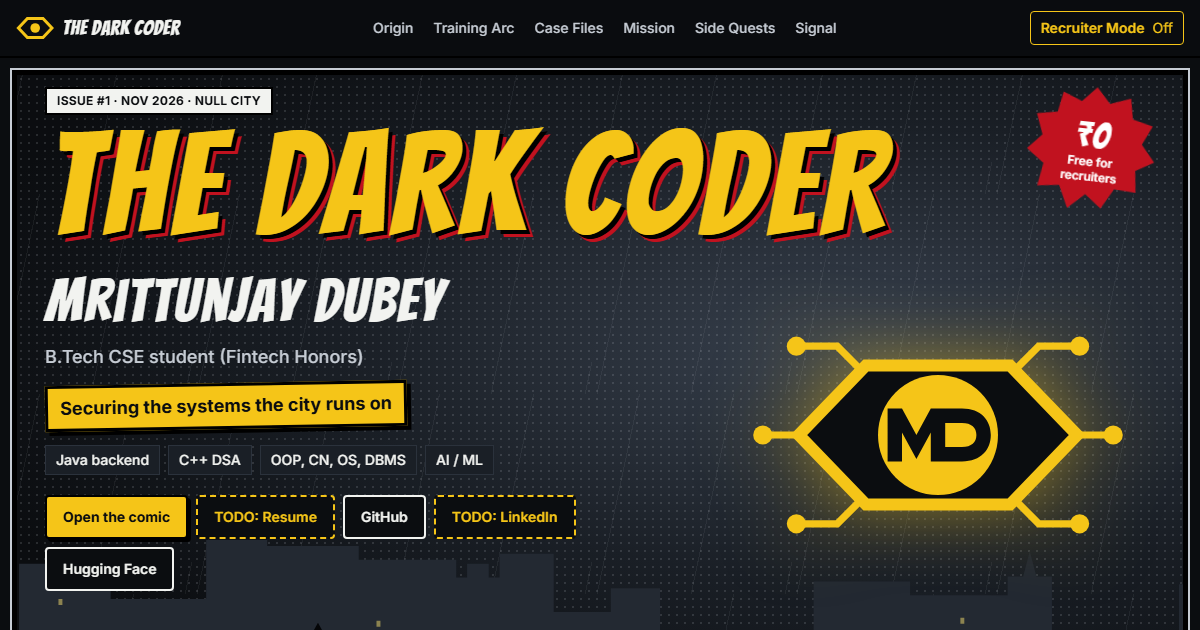
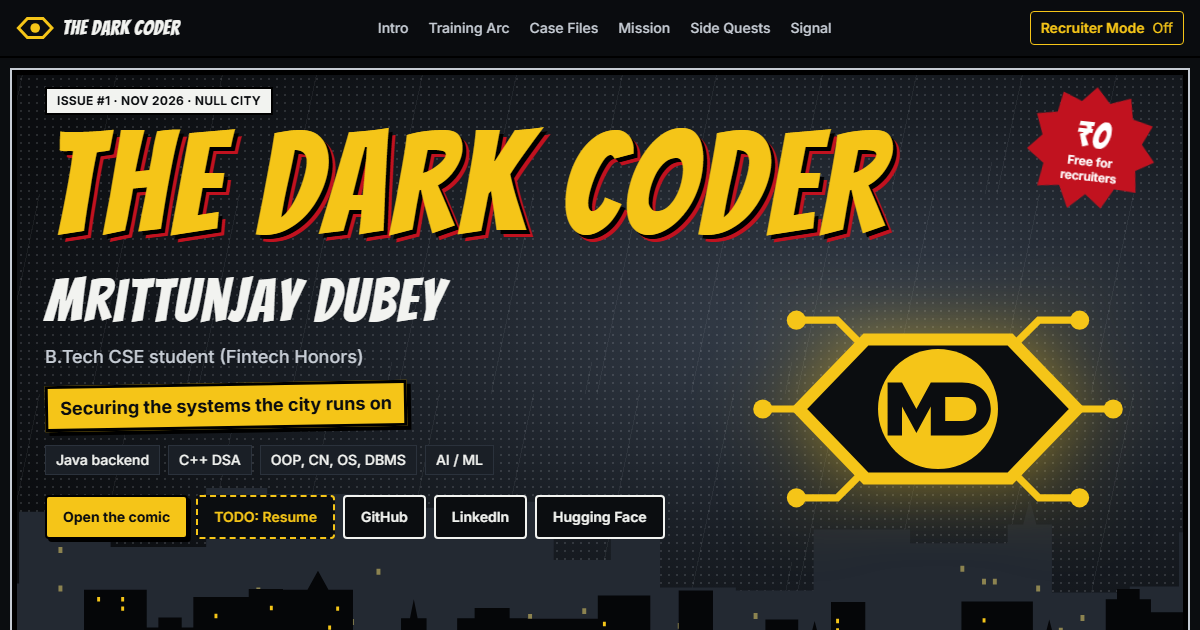
Add confirmed education, contact links, Fintech details and GateKeeper
Fills in Service Record numbers, email and LinkedIn, and adds GateKeeper as a Development case file.

diff --git a/src/content/cases.ts b/src/content/cases.ts
@@ -429,6 +429,37 @@ export const cases: CaseFile[] = [
     ],
   },
   {
+    id: 'gatekeeper',
+    category: 'dev',
+    title: 'GateKeeper',
+    domain: 'Android app',
+    problem:
+      'My parents kept getting locked out at the gate: one would arrive home while the other had forgotten to unlock it. A normal notification is easy to miss, and an early one is easy to forget.',
+    result:
+      "I designed a two-phone alert system that needs no manual tracking. It sends a quiet notice when the commuter leaves work, then sounds a looping full-screen alarm about 3 minutes from home, until the person at home taps to confirm.",
+    limit:
+      'Android only, and installed directly instead of through Google Play, because of Play’s restrictions on SMS permissions.',
+    status: 'Code not public',
+    stack: ['Kotlin', 'Android', 'Firebase', 'Geofencing', 'SMS', 'ZXing'],
+    links: [],
+    evidence: [
+      {
+        type: 'list',
+        title: 'How it works',
+        items: [
+          { term: 'Geofence triggers', detail: 'Detects leaving work and coming within 500 m of home, with no taps needed' },
+          { term: 'False alarm filter', detail: 'A time window stops short walks during the day from setting it off' },
+          { term: 'Hard-to-miss alarm', detail: 'Loops until acknowledged, and the back button cannot dismiss it' },
+          { term: 'Confirmation', detail: 'Tells the commuter when the person at home has responded' },
+          { term: 'SMS fallback', detail: 'Sends the alert by text message when there is no internet' },
+          { term: 'Honk Gate widget', detail: 'One home-screen tap to sound the alarm manually' },
+          { term: 'QR pairing', detail: 'Pairs the two phones with one scan, with no logins or passwords' },
+          { term: 'Battery note', detail: 'Includes the commuter’s battery level in the departure notice' },
+        ],
+      },
+    ],
+  },
+  {
     id: 'apala-dashboard',
     category: 'dev',
     title: 'APALA dashboard',

diff --git a/src/content/site.ts b/src/content/site.ts
@@ -11,12 +11,10 @@ export const person = {
 export const links = {
   github: 'https://github.com/JayD108',
   huggingFace: 'https://huggingface.co/JayF14',
-  // TODO: add your LinkedIn URL.
-  linkedIn: null as string | null,
+  linkedIn: 'https://www.linkedin.com/in/mrittunjaydubey' as string | null,
   // TODO: add your resume PDF to public/ and set this to its file name, e.g. 'resume.pdf'.
   resume: null as string | null,
-  // TODO: add the email address you want public.
-  email: null as string | null,
+  email: 'mrittunjaydubey3@gmail.com' as string | null,
 }
 
 export const issue = {
@@ -44,12 +42,8 @@ export type RecordRow = { label: string; value: string | null; todo?: string }
 export const serviceRecord: RecordRow[] = [
   { label: 'Degree', value: 'B.Tech CSE (Fintech Honors)' },
   { label: 'College', value: 'SRM Institute of Science and Technology' },
-  // TODO: verify, then set value. The old site says 2028.
-  { label: 'Graduation', value: null, todo: 'verify year' },
-  // TODO: verify, then set value. The old site says 9.85.
-  { label: 'CGPA', value: null, todo: 'verify CGPA' },
-  // TODO: verify, then set value. The old site says 92.2%, CBSE.
-  { label: 'Class 12 (CBSE)', value: null, todo: 'verify mark' },
-  // TODO: verify, then set value. The old site says 97.2%, CBSE.
-  { label: 'Class 10 (CBSE)', value: null, todo: 'verify mark' },
+  { label: 'Graduation', value: '2028' },
+  { label: 'CGPA', value: '9.85' },
+  { label: 'Class 12 (CBSE)', value: '92.2%' },
+  { label: 'Class 10 (CBSE)', value: '97.2%' },
 ]

diff --git a/src/components/ClosingChapters.tsx b/src/components/ClosingChapters.tsx
@@ -140,7 +140,7 @@ export function Signal() {
           <ul aria-label={`Ways to contact ${person.name}`} className="order-2 grid gap-2.5 md:order-1">
             <ContactRow label="Email" href={links.email ? `mailto:${links.email}` : null} display={links.email ?? undefined} todo="public email" />
             <ContactRow label="GitHub" href={links.github} display="JayD108" todo="" />
-            <ContactRow label="LinkedIn" href={links.linkedIn} display="Profile" todo="LinkedIn URL" />
+            <ContactRow label="LinkedIn" href={links.linkedIn} display="mrittunjaydubey" todo="LinkedIn URL" />
             <ContactRow label="Hugging Face" href={links.huggingFace} display="JayF14" todo="" />
           </ul>
           <div className="order-1 flex justify-center md:order-2">

diff --git a/src/content/training.ts b/src/content/training.ts
@@ -64,10 +64,8 @@ export const training = {
       id: 'fintech',
       title: 'Fintech',
       status: 'in-training',
-      items: ['Fintech Honors'],
-      note: 'The Honors track of my B.Tech.',
-      // TODO: replace with what you've covered, then delete this line.
-      todo: "what you've covered so far",
+      items: ['Fintech Honors', 'AI in Fintech'],
+      note: 'I completed AI in Fintech this semester, one of six subjects in my Honors course.',
       sfx: 'KA-CHING!',
     },
   ] satisfies Pouch[],

diff --git a/src/content/closing.ts b/src/content/closing.ts
@@ -61,10 +61,8 @@ export const sideQuests = {
     {
       id: 'android',
       title: 'Android apps',
-      text: "Apps I'm building for my parents and friends.",
+      text: 'I built GateKeeper, a messaging and notification app, for my parents. Apps for my friends are coming next.',
       stamp: 'Next issue',
-      // TODO: replace with what the apps do, then delete this line.
-      todo: 'one line on what the apps do',
       sfx: 'BUILD!',
     },
   ] satisfies ClosingPanel[],
